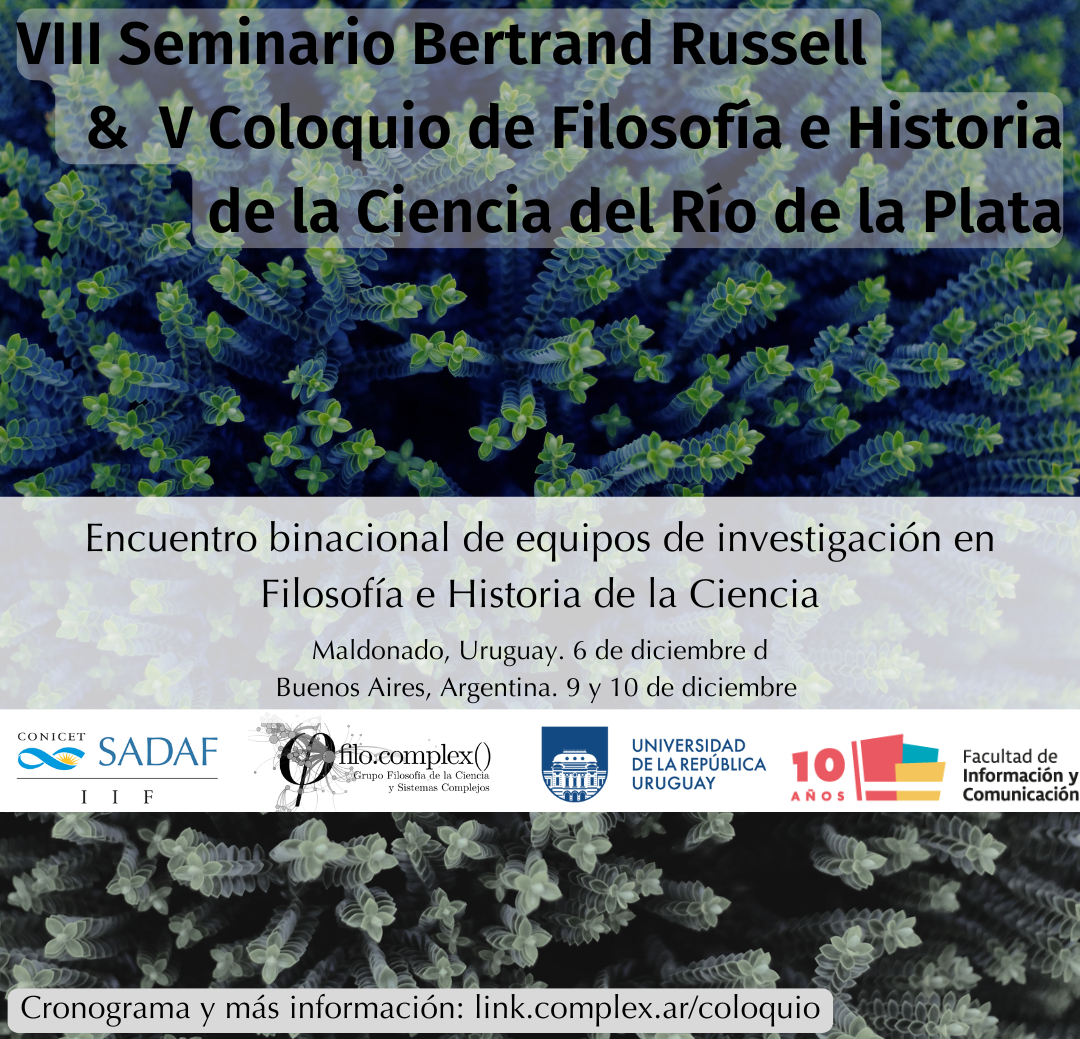
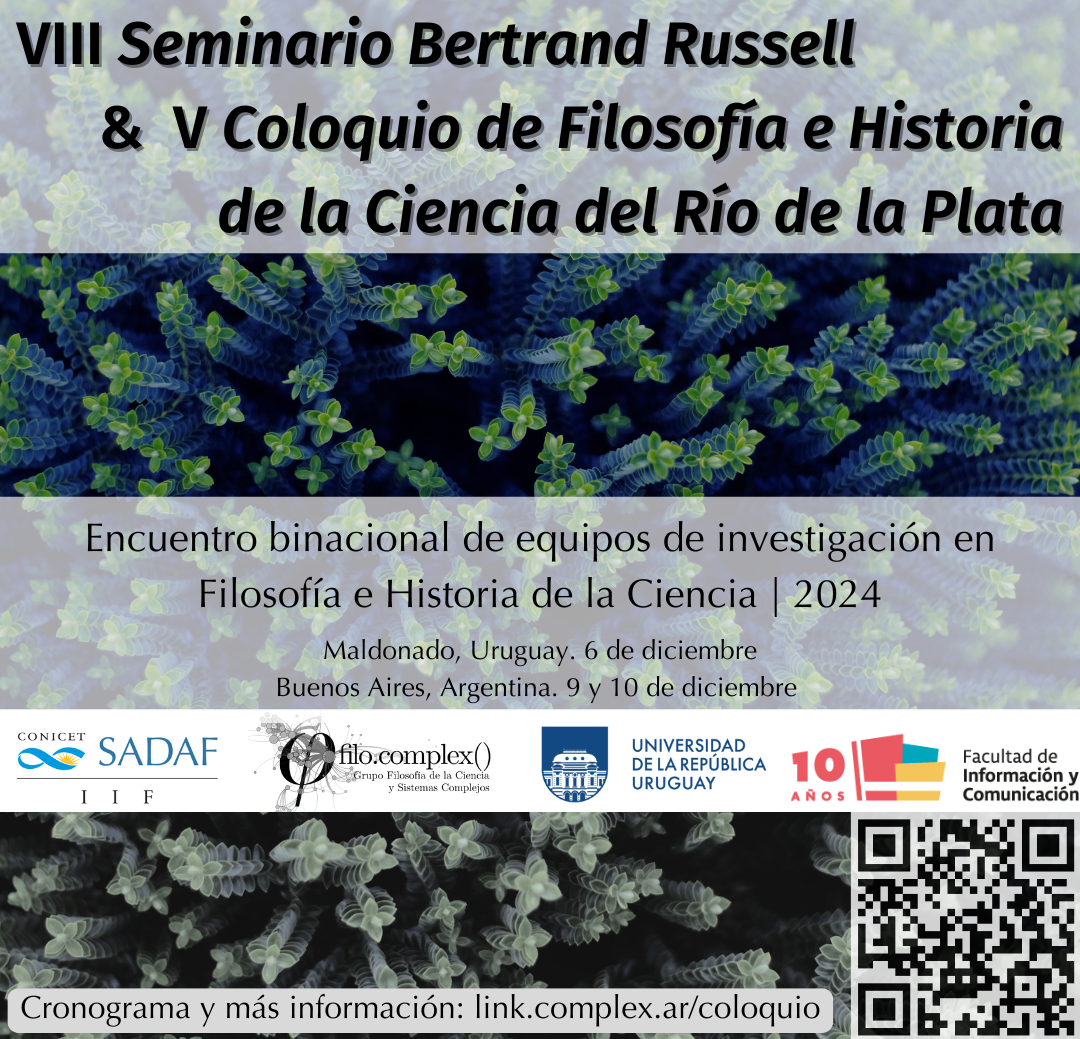
v col

diff --git a/content/es/post/viii-russell-v-coloquio/index.md b/content/es/post/viii-russell-v-coloquio/index.md
@@ -4,12 +4,15 @@ title: 'VIII Seminario Bertrand Russell & V Coloquio de Filosofía e Historia de
 date: '2024-11-30T00:00:00+01:00'
 ---
 
-![image](2.png)
 
 ## Encuentro binacional de equipos de investigación en Filosofía e Historia de la Ciencia
 
 
-## Cronograma
+![image](2.png)
+
+El evento se realizará de manera híbrida. Para participar de manera remota y estar al tanto de las novedades [hay que registrarse en este formulario](https://forms.gle/u3SXmyL67ECoQf7m6). Enviaremos los enlaces a la sala virtual antes de cada sesión.
+
+### Cronograma
 
 #### Viernes 6/12
 
@@ -20,66 +23,50 @@ date: '2024-11-30T00:00:00+01:00'
 **Inteligencia Artificial: Filosofía y Educación**
 
 > CURE: Centro Universitario Regional del Este
-Sede Maldonado
-Salón 1
+Sede Maldonado, Salón 1
 AV. Cachimba del Rey entre Bv. Artigas y Av. Aparicio Saravia
 
 
-10:00 - 10:30. Palabras de apertura y recepción
-**Ignacio Saraiva (FIC, UDELAR)**
+|  |  |  |
+| --- | --- | --- |
+| 10:00 - 10:30 | Ignacio Saraiva (FIC, UDELAR) | Palabras de apertura y recepción |
+| 10:30 - 11:00 | Jorge Rasner (FIC, UDELAR), Agustín Courtoisie (FIC, UDELAR) | Mesa redonda I: “Presentación del 1er cuaderno del Gescyt” |
+| 11:00 - 12:30 | Javier Echeverría (Universidad Politécnica de Madrid, España), Lola S. Almendros (CSIC, España), Jorge Rasner (FIC, UDELAR), Ignacio Cervieri (FIC, UDELAR) | Mesa redonda II (híbrida): “Desafíos actuales de la Inteligencia Artificial” |
+| 12:45 - 13:30 | Leandro Giri (UBA, SADAF, Argentina) | “Cuando el jefe es una IA: un análisis filosófico de las plataformas de changas” |
+| 13:30 - 15:00 | - | Almuerzo |
+| 15:00 - 15:45 | Hernán Miguel (UBA, SADAF, Argentina) | “Formación docente, sistema educativo y tecnologías entrañables” |
+| 16:00 - 16:45 | Santiago López Delacruz (FIC, UDELAR) | “¿La inteligencia artificial cancela el futuro? Un aporte desde el estudio de las narrativas audiovisuales digitales” |
+| 16:45 - 17:30 | Agustín Courtoisie (FIC, UDELAR) | “Inteligencia artificial: diálogo de casos y caminos teóricos” |
+| 17:30 | Mauricio Cheguhem (FIC, UDELAR) | Palabras de cierre |
 
-10:30 - 11:00. Mesa redonda I: “Presentación del 1er cuaderno del Gescyt”
-**Jorge Rasner (FIC, UDELAR) & Agustín Courtoisie (FIC, UDELAR).**
+### Sede Buenos Aires, Argentina
 
-11:00 - 12:30. Mesa redonda II (híbrida): “Desafíos actuales de la Inteligencia
-Artificial”
-**Javier Echeverría (Universidad Politécnica de Madrid, España), Lola S.
-Almendros (CSIC, España), Jorge Rasner (FIC, UDELAR) & Ignacio Cervieri
-(FIC, UDELAR).**
+> Sociedad de Análisis Filosófico (SADAF)
+> Bulnes 642, CABA.
+> 
+### Lunes 9/12
 
-12:45 - 13:30. “Cuando el jefe es una IA: un análisis filosófico de las plataformas de changas”
-**Leandro Giri (UBA, SADAF, Argentina)**
-
-13:30 - 15:00. Almuerzo.
-
-15:00 - 15:45. “Formación docente, sistema educativo y tecnologías entrañables”
-**Hernán Miguel (UBA, SADAF, Argentina)**
-
-16:00 - 16:45. “¿La inteligencia artificial cancela el futuro? Un aporte desde el
-estudio de las narrativas audiovisuales digitales”
-**Santiago López Delacruz (FIC, UDELAR)**
-
-16:45 - 17:30. “Inteligencia artificial: diálogo de casos y caminos teóricos”
-**Agustín Courtoisie (FIC, UDELAR)**
-
-17:30. Palabras de cierre
-**Mauricio Cheguhem (FIC, UDELAR)**
-
-## Sede Buenos Aires, Argentina
-
-### Lunes 9
-
-|   |   |
+|   |   | |
 |---|---|---|
-| 10:00 - 11:00 | Mauricio Cheguhem | Literatura y ciencia: de la anticipación a la teoría adaptativa en la ficción climática rioplatense
-| 11:00 - 12:00 | Andrés Ilcic | Gobernanza e inteligencia artificial: Una mirada desde los sistemas complejos
-| 12:00 - 13:00 | Alejandro Paiva | Notas sobre el problema de la demarcación
-| 13:00 - 15:00 | | Almuerzo |
-| 15:00 - 16:00 | Marcelo Rodríguez | Racionalidades científicas y racionalidades de la comunicación: posverdad y redes sociales
-| 16:00 - 17:00 | Ignacio Saraiva | Reconstrucción paradigmática y teórica en ciencia de la información: el caso de la recuperación de la información
+| 10:00 - 11:00 | Mauricio Cheguhem | Literatura y ciencia: de la anticipación a la teoría adaptativa en la ficción climática rioplatense |
+| 11:00 - 12:00 | Andrés Ilcic | Gobernanza e inteligencia artificial: Una mirada desde los sistemas complejos |
+| 12:00 - 13:00 | Alejandro Paiva | Notas sobre el problema de la demarcación |
+| 13:00 - 15:00 | | Almuerzo | 
+| 15:00 - 16:00 | Marcelo Rodríguez | Racionalidades científicas y racionalidades de la comunicación: posverdad y redes sociales |
+| 16:00 - 17:00 | Ignacio Saraiva | Reconstrucción paradigmática y teórica en ciencia de la información: el caso de la recuperación de la información |
 | 17:00 - 18:00 | Griselda Ríos | Transmisión social del significado
 
-### Martes 10
+### Martes 10/12
 
-|  |  |
+|  |  | |
 |------|---------|-------|
-| 10:00 - 11:00 | **Virginia y Gregory Chaitin** | La inexistencia de método único en las ciencias y en las matemáticas |
-| 11:00 - 12:00 | **Miguel Fuentes** | TBA |
-| 12:00 - 13:00 | **Ada Czerwonogora** | Educación y Redes II |
+| 10:00 - 11:00 | Virginia y Gregory Chaitin | La inexistencia de método único en las ciencias y en las matemáticas |
+| 11:00 - 12:00 | Miguel Fuentes | TBA |
+| 12:00 - 13:00 | Ada Czerwonogora | Educación y Redes II |
 | 13:00 - 14:00 |  | Almuerzo |
-| 15:00 - 16:00 | **Eric Rubio, Sara Alarcón y Leandro Giri** | Redes Neuronales Artificiales como dispositivos de regulación en el capitalismo digital |
-| 16:00 - 17:00 | **Juan Javier Nahabedian** | Certeza en tiempos de redes sociales: una crítica al binarismo epistémico |
-| 17:00 - 18:00 | **Matías Giri** | Los planetas según Cicerón, Grosseteste y Galileo: una historia de cambio conceptual |
+| 15:00 - 16:00 | Eric Rubio, Sara Alarcón y Leandro Giri | Redes Neuronales Artificiales como dispositivos de regulación en el capitalismo digital |
+| 16:00 - 17:00 | Juan Javier Nahabedian | Certeza en tiempos de redes sociales: una crítica al binarismo epistémico |
+| 17:00 - 18:00 | Matías Giri | Los planetas según Cicerón, Grosseteste y Galileo: una historia de cambio conceptual |
 
 **Coordinación**: Hernán Miguel, Leandro Giri y Mauricio Cheguhem.
 
@@ -88,6 +75,8 @@ estudio de las narrativas audiovisuales digitales”
 * [coloquiofhc@fic.edu.uy](mailto:coloquiofhc@fic.edu.uy)
 
 * [mauricio.cheguem@fic.edu.uy](mailto:mauricio.cheguem@fic.edu.uy)
+
+> Para participar de manera remota y estar al tanto de las novedades [hay que registrarse en este formulario](https://forms.gle/u3SXmyL67ECoQf7m6).
 
 # Organizan:
 
